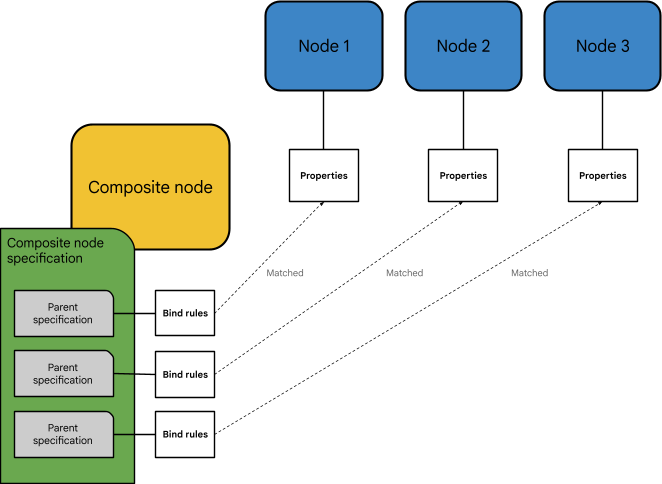
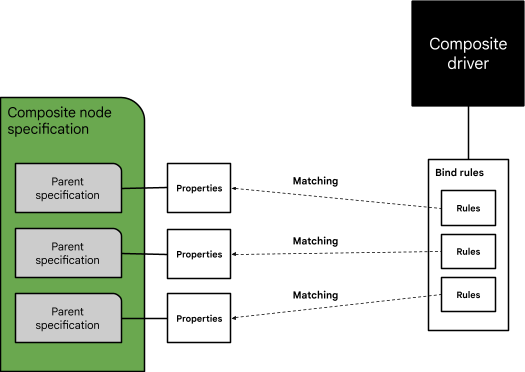
[docs][driver] Fix "Create a composite node" diagrams.
composite-driver-04.png should correspond to the step "composite
driver's bind rules are matched".

composite-driver-05.png should correspond to the step "parent node
properties are matched".

Commit-Queue: Yilong Li <[email redacted]>
Fuchsia-Auto-Submit: Yilong Li <[email redacted]>

diff --git a/docs/development/drivers/developer_guide/create-a-composite-node.md b/docs/development/drivers/developer_guide/create-a-composite-node.md
@@ -117,13 +117,13 @@ to the system, the following events take place:
    Nodes whose node properties can satisfy the **bind rules** provided by the
    parent specifications in the composite node specification are matched. Each
    matching node becomes a parent node of the newly created composite node in
-   step 3.
+   step 4.
 
    ![composite node specification step 3](images/composite-driver-05.png "Parent nodes' properties are matched")
 
 1. After all parent specifications have a match, the driver manager creates a
    composite node using the matched nodes as parents and finally binds the
-   composite driver (matched in step 1) to the newly created composite node.
+   composite driver (matched in step 2) to the newly created composite node.
    (The composite node provides the primary node and node names.)
 
    ![composite node specification step 4](images/composite-driver-01.png "A composite node is created")